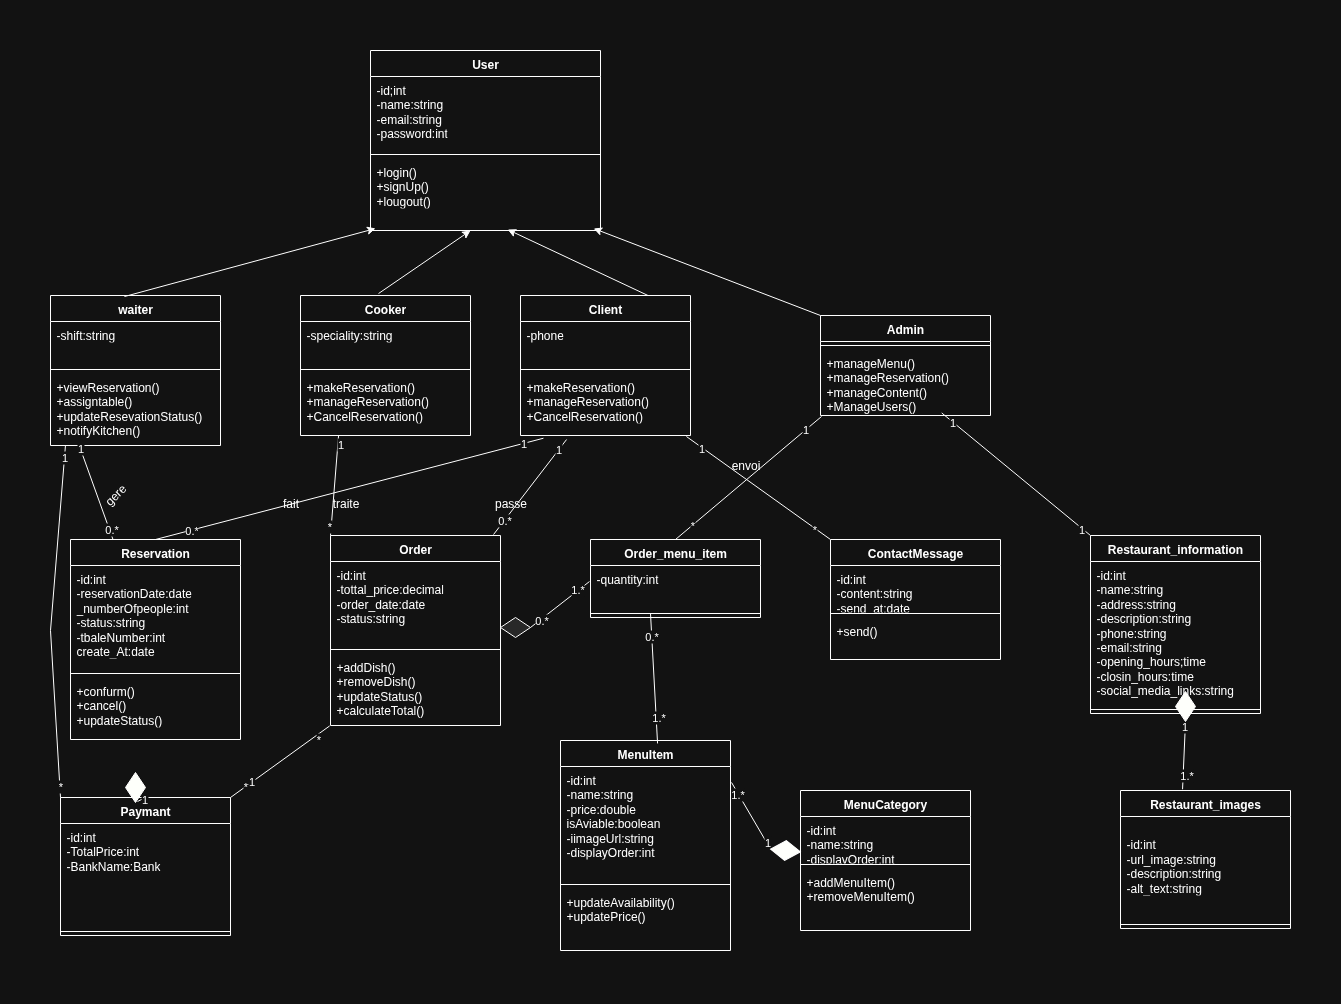
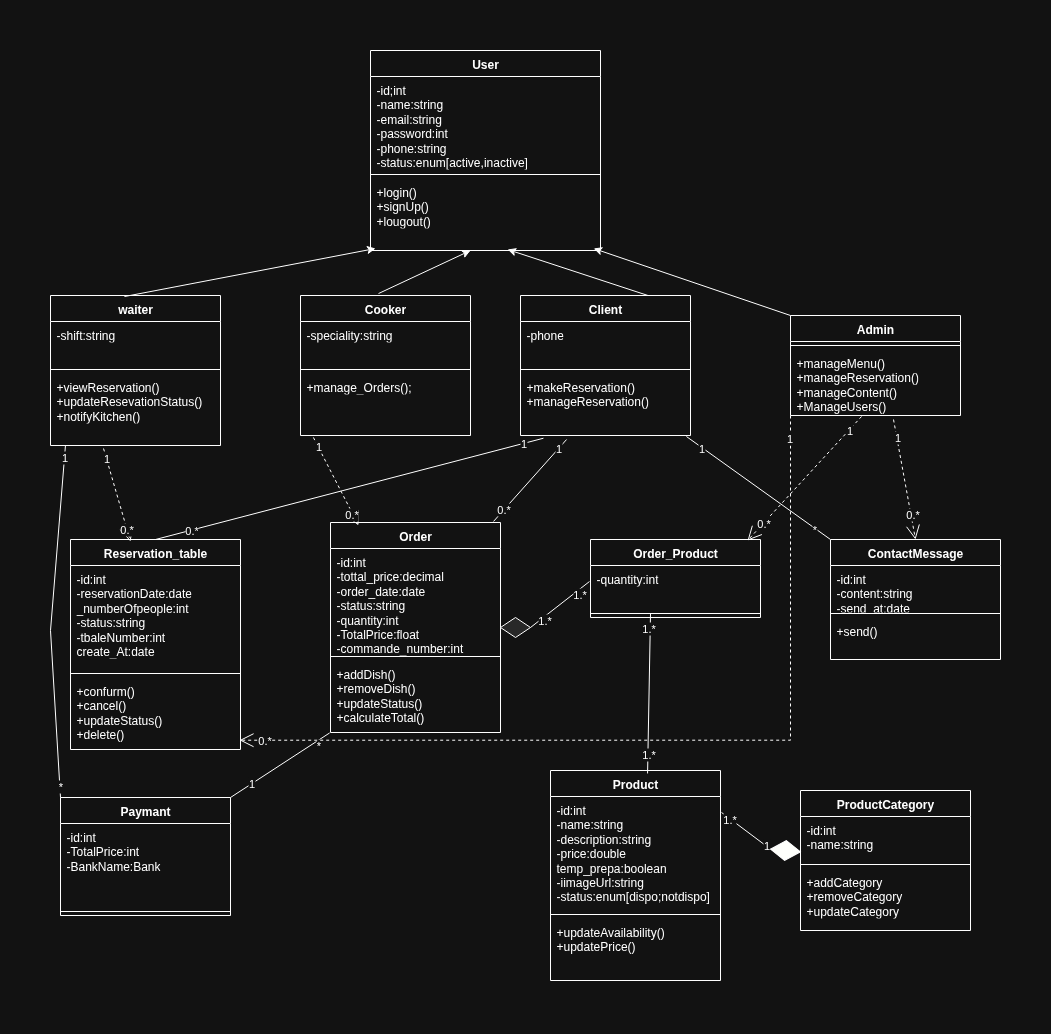
add option contact restaurant for Guest

diff --git a/routes/web.php b/routes/web.php
@@ -17,20 +17,6 @@ use App\Http\Controllers\Auth\SocialController;
 use App\Http\Controllers\Auth\AuthController;
 use Stripe\ApiOperations\Update;
 
-Route::get('/auth/google', [SocialController::class, 'redirect']);
-Route::get('/auth/google/callback', [SocialController::class, 'callback']);
-Route::get('/',[GeustController::class,'guest'])->name('guest');
-Route::get('/user/login', function () {
-    return view('Auth.login');
-})->name('login');
-Route::get('signup', function () {
-    return View('Auth.signup');
-})->name('signup');
-Route::get('/logout', [AuthController::class, 'logout'])->name('logout');
-
-Route::post('/register', [AuthController::class, 'store'])->name('store');
-Route::post('/login', [AuthController::class, 'login'])->name('login.store');
-
 
 Route::middleware(['auth', 'admin',])->group(function () {
 
@@ -58,23 +44,19 @@ Route::middleware(['auth', 'admin',])->group(function () {
     });
     Route::post('/Status/Update/{id}', [OrderController::class, 'Update_Status']);
 
-    Route::get('/clients',[AdminController::class, 'index'])->name('clients');
+    Route::get('/clients', [AdminController::class, 'index'])->name('clients');
     Route::post('/admin/users/{id}/activate', [AdminController::class, 'activate']);
-Route::post('/admin/users/{id}/inactive', [AdminController::class, 'inactive']);
-Route::post('/admin/users/{id}/block', [AdminController::class, 'block']);
-Route::delete('/admin/users/{id}', [AdminController::class, 'destroy']);
-Route::delete('Order/destroy/{id}', [OrderController::class, 'delete'])->name('orders.destroy');
-
-
-
+    Route::post('/admin/users/{id}/inactive', [AdminController::class, 'inactive']);
+    Route::post('/admin/users/{id}/block', [AdminController::class, 'block']);
+    Route::delete('/admin/users/{id}', [AdminController::class, 'destroy']);
+    Route::delete('Order/destroy/{id}', [OrderController::class, 'delete'])->name('orders.destroy');
 });
 
 Route::middleware(['auth', 'role:customer,waiter,cooker'])->group(function () {
     Route::get('/reservation', [ReservationController::class, 'ShowReservationForm'])->name('reservation');
-    Route::post('/reservation/panier/{id}',[ReservationController::class,'delete'])->name('reservation.panier.cancel');
+    Route::post('/reservation/panier/{id}', [ReservationController::class, 'delete'])->name('reservation.panier.cancel');
     Route::post('/reservation/create', [ReservationController::class, 'MakeReservation'])->name('reservation_create');
 
-    Route::post('/contact', [ContactMessageController::class, 'Send'])->name('contact');
     Route::get('/home', [MenuItemController::class, 'show'])->name('home');
     Route::post('/order/payment-intent', [OrderController::class, 'createPaymentIntent']);
     Route::post('/order/store', [OrderController::class, 'store']);
@@ -88,5 +70,18 @@ Route::middleware(['auth', 'role:customer,waiter,cooker'])->group(function () {
         '/client/mes-reservations',
         [ReservationController::class, 'index']
     )->name('client.reservations');
-
 });
+
+Route::post('/register', [AuthController::class, 'store'])->name('store');
+Route::post('/login', [AuthController::class, 'login'])->name('login.store');
+Route::get('/logout', [AuthController::class, 'logout'])->name('logout');
+Route::post('/contact', [ContactMessageController::class, 'Send'])->name('contact');
+Route::get('/auth/google', [SocialController::class, 'redirect']);
+Route::get('/auth/google/callback', [SocialController::class, 'callback']);
+Route::get('/', [GeustController::class, 'guest'])->name('guest');
+Route::get('/user/login', function () {
+    return view('Auth.login');
+})->name('login');
+Route::get('signup', function () {
+    return View('Auth.signup');
+})->name('signup');

diff --git a/database/migrations/2026_04_25_134816_drop_user_id_and_item_id_from_contactmessage_table.php b/database/migrations/2026_04_25_134816_drop_user_id_and_item_id_from_contactmessage_table.php
@@ -1,0 +1,27 @@
+<?php
+use Illuminate\Database\Migrations\Migration;
+use Illuminate\Support\Facades\DB;
+use Illuminate\Support\Facades\Schema;
+use Illuminate\Database\Schema\Blueprint;
+
+return new class extends Migration
+{
+    public function up(): void
+    {
+        DB::statement('SET FOREIGN_KEY_CHECKS=0;');
+
+        Schema::table('ContactMessage', function (Blueprint $table) {
+            $table->dropColumn(['user_id', 'Item_id']);
+        });
+
+        DB::statement('SET FOREIGN_KEY_CHECKS=1;');
+    }
+
+    public function down(): void
+    {
+        Schema::table('ContactMessage', function (Blueprint $table) {
+            $table->unsignedBigInteger('user_id');
+            $table->unsignedBigInteger('Item_id')->nullable();
+        });
+    }
+};

diff --git a/app/Http/Controllers/ContactMessageController.php b/app/Http/Controllers/ContactMessageController.php
@@ -5,6 +5,7 @@ namespace App\Http\Controllers;
 use App\Http\Requests\CreateContactRequest;
 use App\Models\ContactMessage;
 use Illuminate\Support\Facades\Auth;
+use Illuminate\View\View;
 
 class ContactMessageController extends Controller
 {
@@ -16,7 +17,6 @@ class ContactMessageController extends Controller
             'name' => $data['name'],
             'email' => $data['email'] ?? null,
             'Message_Content' => $data['message'],
-            'user_id' => Auth::id(),
         ]);
 
         if (!$contact) {
@@ -24,7 +24,12 @@ class ContactMessageController extends Controller
                 ->with('error', 'Une erreur est survenue. Veuillez réessayer.');
         }
 
-        return redirect(route('home') . '#contact')
+        if (Auth::check()) {
+            return redirect(route('home') . '#contact')
+                ->with('success', 'Merci ' . Auth::user()->name . ', votre message a été envoyé avec succès.');
+        }
+
+        return redirect(route('guest') . '#contact')
             ->with('success', 'Votre message a été envoyé avec succès. L’équipe de La Maison vous contactera bientôt.');
     }
 }

diff --git a/resources/views/CLient/Contact.blade.php b/resources/views/CLient/Contact.blade.php
@@ -24,7 +24,7 @@
             <div class="w-8 h-8 border border-gold/20 flex items-center justify-center text-gold flex-shrink-0 text-sm">📞</div>
             <div>
               <div class="text-[10px] tracking-[.2em] uppercase text-gold mb-1">Téléphone</div>
-              <div class="text-[13px] text-cream/50">[phone redacted]</div>
+              <div class="text-[13px] text-cream/50">[phone redacted]</div>
             </div>
           </div>
           <div class="flex items-start gap-4">
@@ -36,7 +36,6 @@
           </div>
         </div>
       </div>
-      @if(Auth::user())
       <div>
         <span class="block text-[10px] tracking-[.4em] uppercase text-gold mb-4">Message</span>
         <h2 class="font-display font-light mb-8" style="font-size:clamp(2rem,4vw,2.8rem)">Écrivez-<em class="italic text-gold">nous</em></h2>
@@ -60,7 +59,6 @@
           </form>
         </div>
       </div>
-      @endif
     </div>
     @include('Component.HandleMessages')
 